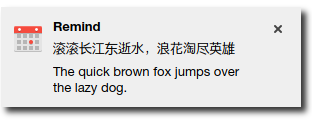
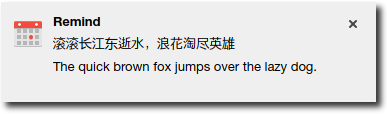
Edit post

diff --git a/_posts/2020-01-03-Remind-Calendar-Notification.md b/_posts/2020-01-03-Remind-Calendar-Notification.md
@@ -64,7 +64,7 @@ mate桌面的通知服务，不依赖桌面，可以设置主题。
 
 lxqt桌面的通知服务，依赖不多，可以设置位置和大小。
 
-<img src="/assets/img/lxqt-notificationd.png" width="312px" />
+<img src="/assets/img/lxqt-notificationd.png" width="387px" />
 
 - dunst
 
